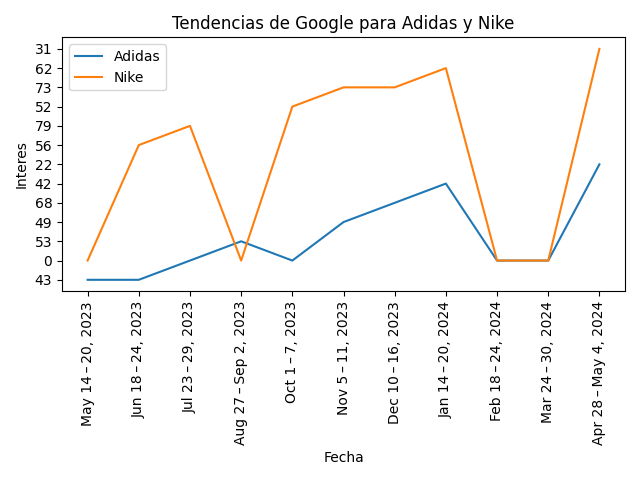
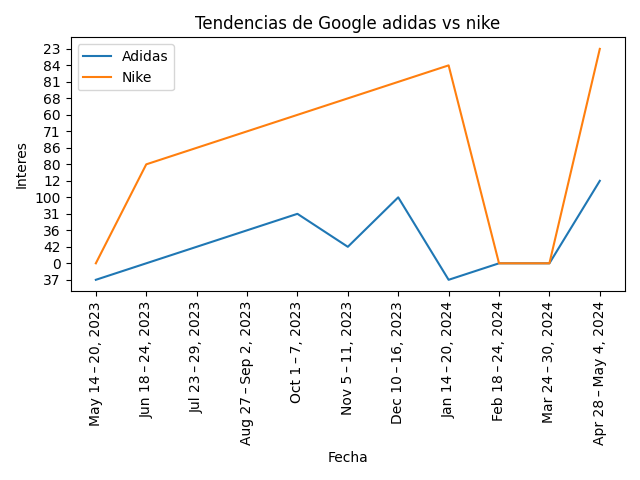
Correction api google

diff --git a/base/templates/base.html b/base/templates/base.html
@@ -28,6 +28,7 @@
             {% else %}
             <a class="navbar-brand" href="{% url 'login' %}">{{ login }}</a>
             <a class="navbar-brand" href="{% url 'sign_up' %}">{{ signup }}</a>
+            <a class="navbar-brand" href="{% url 'api_trend' %}">{{ trending }}</a>
             {% endif %}
             {% if user.is_authenticated and user.is_customer %}
             <form class="d-flex">

diff --git a/api3/views.py b/api3/views.py
@@ -2,14 +2,12 @@ from django.shortcuts import render
 from django.views import View
 import serpapi
 import matplotlib.pyplot as plt
-from asgiref.sync import sync_to_async
 from django.conf import settings
 from resources.lang.texts import TEXTS
 # Create your views here.
 
 class TrendAdidasVsNike(View):
 
-    @sync_to_async
     def get(self, request):
 
[1 lines of base64/hex data omitted]
@@ -47,12 +45,12 @@ class TrendAdidasVsNike(View):
         values_adidas = [data['values'][0]['value'] for data in timeline_data_adidas]
         values_nike = [data['values'][0]['value'] for data in timeline_data_nike]
 
-        plt.plot(dates_adidas[::5], values_adidas[::5], label='Adidas')
+        plt.plot(dates_adidas[::5], values_adidas[::5], label = 'Adidas')
         plt.plot(dates_nike[::5], values_nike[::5], label='Nike')
         plt.legend()
         plt.xlabel('Fecha')
         plt.ylabel('Interes')
-        plt.title('Tendencias de Google para Adidas y Nike')
+        plt.title('Tendencias de Google adidas vs nike')
         plt.xticks(rotation=90)
         plt.tight_layout()
 

diff --git a/base/views.py b/base/views.py
@@ -21,6 +21,7 @@ class HomeView(View):
             'cart_text' : TEXTS['cart'],
             'create_product' : TEXTS['create_product'],
             'create_brand' : TEXTS['create_brand'],
+            'trending' : TEXTS['tendencias'],
             'newest_products': newest_products,
             'all_products': all_products,
             'brands': brands,

diff --git a/resources/lang/texts.py b/resources/lang/texts.py
@@ -12,6 +12,7 @@ TEXTS = {
     'shopping_cart': _('Carrito de compras'),
     'shopping_cart_message': _('Ver tu carrito...'),
     'price': _('Precio'),
+    'tendencias': _('Tendencias'),
     'description': _('Descripción'),
     'brand': _('Marca'),
     'category': _('Categoría'),

diff --git a/api3/urls.py b/api3/urls.py
@@ -2,5 +2,5 @@ from django.urls import path
 from .views import TrendAdidasVsNike
 
 urlpatterns = [
-    path('api/trends', TrendAdidasVsNike.as_view(), name='search_product')
+    path('api/trends', TrendAdidasVsNike.as_view(), name='api_trend')
 ]
